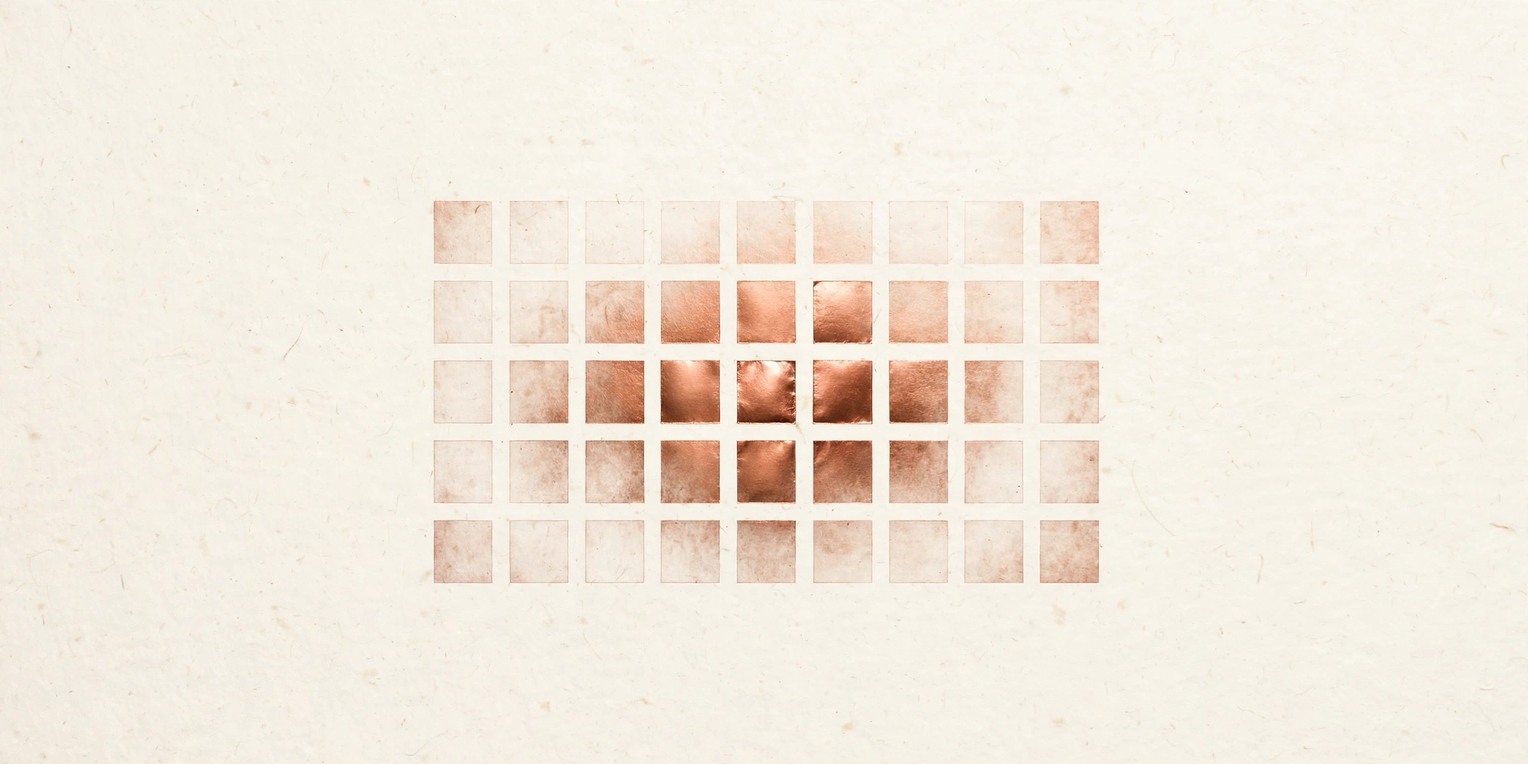
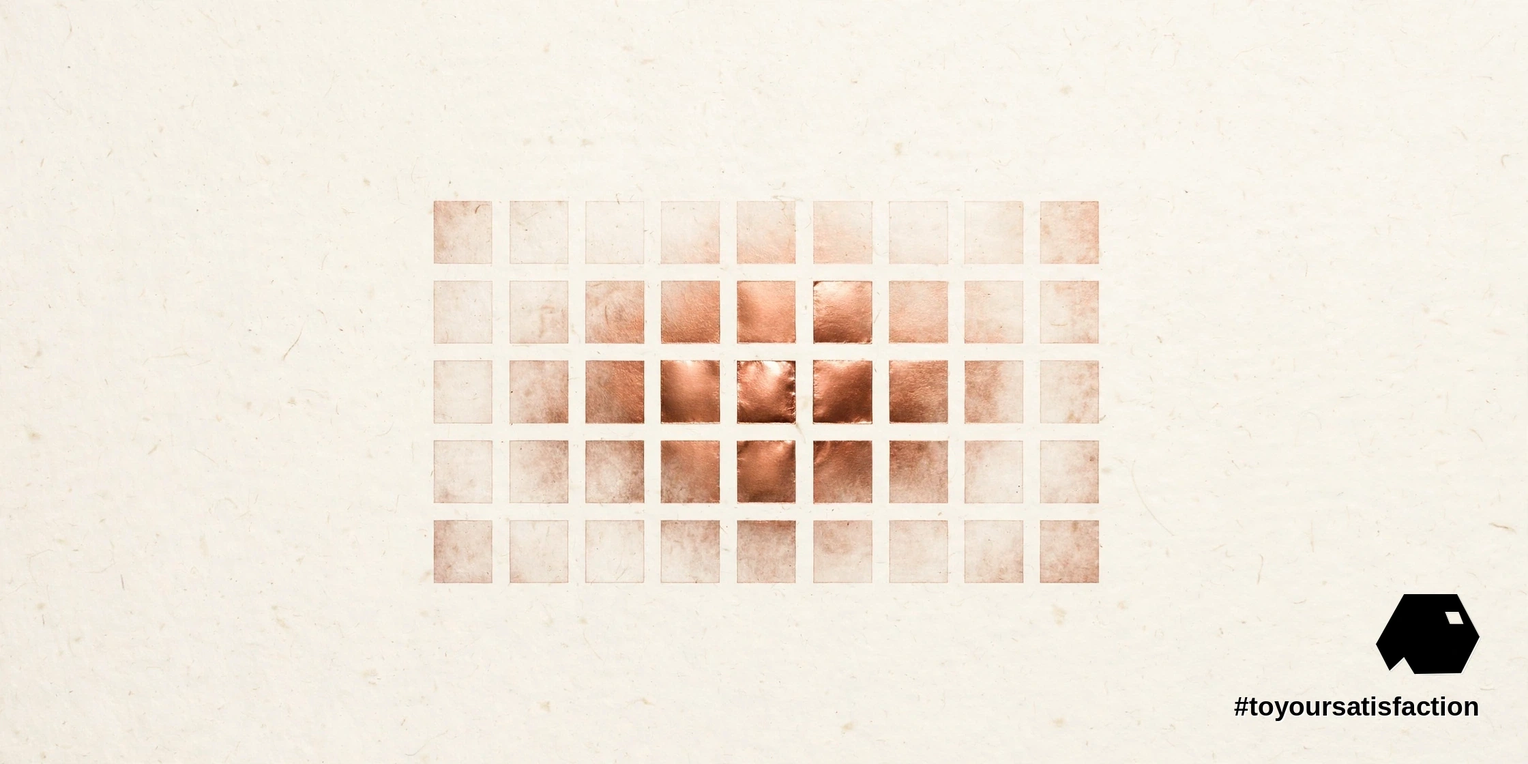
Magazine edition — batch 1

Changed region(s): [[0.8125, 0.7812, 0.9688, 0.9375]]

diff --git a/articles/diffusion-models-write-in-parallel/index.html b/articles/diffusion-models-write-in-parallel/index.html
@@ -5,42 +5,82 @@
 <meta name="viewport" content="width=device-width, initial-scale=1">
 <meta http-equiv="Content-Security-Policy" content="default-src 'self'; script-src 'self' 'unsafe-inline'; style-src 'self' 'unsafe-inline'; img-src 'self' data:; connect-src 'self' https://api.mymemory.translated.net; object-src 'none'; base-uri 'self'">
 <title>Writing in Parallel: The Diffusion Model That Drafts the Whole Page at Once — Ovia Inc</title>
-<meta name="description" content="DiffuSpace Clover-35B-A3B-Preview on Hugging Face is a Mixture-of-Experts diffusion language model — 35B total, 3B active, Apache licence — and the maker's own comparison puts the model first on six agent benchmarks. Generation order is a design choice, and parallel drafting changes what agents can attempt.">
+<meta name="description" content="DiffuSpace Clover-35B-A3B-Preview is a Mixture-of-Experts diffusion language model that drafts a whole block at once, and generation order changes what agents can attempt.">
 <meta property="og:type" content="article">
 <meta property="og:title" content="Writing in Parallel: The Diffusion Model That Drafts the Whole Page at Once">
-<meta property="og:description" content="DiffuSpace Clover-35B-A3B-Preview on Hugging Face is a Mixture-of-Experts diffusion language model — 35B total, 3B active, Apache licence — and the maker's own comparison puts the model first on six agent benchmarks. Generation order is a design choice, and parallel drafting changes what agents can attempt.">
+<meta property="og:description" content="DiffuSpace Clover-35B-A3B-Preview is a Mixture-of-Experts diffusion language model that drafts a whole block at once, and generation order changes what agents can attempt.">
 <meta property="og:url" content="https://oviainc.github.io/ai-services/articles/diffusion-models-write-in-parallel/">
 <meta property="og:image" content="https://oviainc.github.io/ai-services/articles/diffusion-models-write-in-parallel/ovia-inc-diffusion-models-write-in-parallel-hero.webp">
 <meta name="twitter:card" content="summary_large_image">
 <style>
-  :root{--bg:#0A0E14;--accent:#2E9BD6;--text:#FFFFFF;--muted:#B9C4CE;}
+  :root{--bg:#0A0E14;--panel:#101823;--text:#FFFFFF;--muted:#B9C4CE;--line:#22303E;--accent:#CE8450;}
   *{box-sizing:border-box;margin:0;padding:0;}
-  body{background:var(--bg);color:var(--text);font-family:-apple-system,BlinkMacSystemFont,"Segoe UI",Roboto,Helvetica,Arial,sans-serif;line-height:1.65;}
-  main{max-width:760px;margin:0 auto;padding:32px 20px 48px;}
-  .langbar{display:flex;justify-content:flex-end;align-items:center;gap:10px;margin-bottom:18px;}
-  .langbar label{color:var(--muted);font-size:.85rem;letter-spacing:.08em;text-transform:uppercase;}
-  .langbar select{background:#101823;color:var(--text);border:1px solid #1E2A36;border-radius:8px;padding:6px 10px;font-size:.95rem;max-width:60vw;}
-  .kicker{color:var(--accent);font-size:.85rem;letter-spacing:.18em;text-transform:uppercase;margin-bottom:14px;}
-  h1{font-size:2rem;line-height:1.25;margin-bottom:20px;font-weight:700;}
-  h2{font-size:1.3rem;line-height:1.35;margin:28px 0 12px;font-weight:700;color:var(--accent);}
-  img.hero{width:100%;height:auto;border-radius:10px;display:block;margin-bottom:28px;}
-  p{margin-bottom:16px;color:var(--text);}
-  p.tags{color:var(--accent);font-size:.95rem;}
-  ul.refs{list-style:none;margin-bottom:16px;}
-  ul.refs li{margin-bottom:10px;color:var(--muted);font-size:.95rem;}
+  body{background:var(--bg);color:var(--text);font-family:Georgia,'Times New Roman',Times,serif;line-height:1.6;}
+  a{color:var(--accent);}
+  .sans{font-family:-apple-system,BlinkMacSystemFont,"Segoe UI",Roboto,Helvetica,Arial,sans-serif;}
+  /* masthead zone over the article background image */
+  .mastzone{position:relative;overflow:hidden;border-bottom:1px solid var(--line);}
+  .mast-bg{position:absolute;inset:0;background-size:cover;background-position:center;opacity:.22;}
+  .mast-shade{position:absolute;inset:0;background:linear-gradient(180deg,rgba(10,14,20,.52),rgba(10,14,20,.94));}
+  .mast-inner{position:relative;max-width:1180px;margin:0 auto;padding:24px 22px 42px;}
+  .masthead{display:flex;align-items:center;gap:16px;flex-wrap:wrap;}
+  .masthead a.logo{display:block;line-height:0;}
+  .masthead img.logo{height:46px;width:auto;display:block;}
+  .wordmark{font-family:-apple-system,BlinkMacSystemFont,"Segoe UI",Roboto,Helvetica,Arial,sans-serif;letter-spacing:.34em;font-size:13px;text-transform:uppercase;color:var(--text);}
+  .langbar{display:flex;align-items:center;gap:10px;margin-left:auto;}
+  .langbar label{color:var(--muted);font-size:.8rem;letter-spacing:.08em;text-transform:uppercase;font-family:-apple-system,BlinkMacSystemFont,"Segoe UI",Roboto,Helvetica,Arial,sans-serif;}
+  .langbar select{background:#101823;color:var(--text);border:1px solid var(--line);border-radius:8px;padding:6px 10px;font-size:.95rem;max-width:52vw;}
+  .kicker{color:var(--accent);font-size:.85rem;letter-spacing:.3em;text-transform:uppercase;margin:44px 0 16px;font-family:-apple-system,BlinkMacSystemFont,"Segoe UI",Roboto,Helvetica,Arial,sans-serif;}
+  h1.display{font-family:"Arial Narrow Bold","Franklin Gothic Medium",Impact,Haettenschweiler,"Helvetica Neue Condensed Bold",sans-serif;text-transform:uppercase;font-weight:700;font-size:clamp(2.5rem,6.4vw,4.7rem);line-height:.99;letter-spacing:.004em;max-width:1020px;}
+  .standfirst{font-size:clamp(1.12rem,2.3vw,1.42rem);font-style:italic;color:var(--muted);max-width:780px;line-height:1.5;margin-top:18px;}
+  .byline{font-family:-apple-system,BlinkMacSystemFont,"Segoe UI",Roboto,Helvetica,Arial,sans-serif;font-size:.74rem;letter-spacing:.2em;text-transform:uppercase;color:var(--muted);border-top:1px solid var(--line);margin-top:24px;padding-top:14px;}
+  /* hero */
+  .hero-zone{max-width:1180px;margin:34px auto 0;padding:0 22px;}
+  figure.hero img{width:100%;height:auto;display:block;border-radius:2px;}
+  figcaption{font-family:-apple-system,BlinkMacSystemFont,"Segoe UI",Roboto,Helvetica,Arial,sans-serif;font-size:.78rem;color:var(--muted);padding-top:8px;letter-spacing:.03em;}
+  /* body columns */
+  main{max-width:1180px;margin:0 auto;padding:6px 22px 30px;}
+  .cols{margin-top:30px;font-size:1.16rem;line-height:1.75;}
+  @media (min-width:1020px){.cols{column-count:2;column-gap:54px;}}
+  .cols p{margin:0 0 20px;}
+  .cols p.first::first-letter{font-family:"Arial Narrow Bold","Franklin Gothic Medium",Impact,sans-serif;font-size:5.4rem;line-height:.78;float:left;padding:.55rem .9rem 0 0;color:var(--accent);font-weight:700;}
+  h2.sec{font-family:-apple-system,BlinkMacSystemFont,"Segoe UI",Roboto,Helvetica,Arial,sans-serif;font-size:.88rem;letter-spacing:.26em;text-transform:uppercase;color:var(--accent);margin:36px 0 14px;border-top:2px solid var(--accent);padding-top:14px;break-after:avoid;}
+  h2.sec:first-child{margin-top:0;}
+  blockquote.pull{column-span:all;font-size:clamp(1.55rem,3.6vw,2.35rem);line-height:1.3;font-style:italic;text-align:center;color:var(--accent);margin:42px 0;padding:4px 12px;}
+  figure.body{margin:4px 0 22px;break-inside:avoid;}
+  figure.wide{column-span:all;margin:30px 0 34px;}
+  figure.body img,figure.wide img{width:100%;height:auto;display:block;border-radius:2px;}
+  .keybox{break-inside:avoid;background:var(--panel);border:1px solid var(--line);border-top:3px solid var(--accent);padding:18px 20px 10px;margin:0 0 24px;font-family:-apple-system,BlinkMacSystemFont,"Segoe UI",Roboto,Helvetica,Arial,sans-serif;}
+  .keybox h3{font-size:.78rem;letter-spacing:.24em;text-transform:uppercase;color:var(--accent);margin-bottom:10px;}
+  .keybox li{margin:0 0 9px 18px;font-size:.95rem;line-height:1.5;}
+  /* references + tags + footer */
+  .refs-sec{margin-top:44px;border-top:1px solid var(--line);padding-top:24px;}
+  .refs-sec h2{font-family:-apple-system,BlinkMacSystemFont,"Segoe UI",Roboto,Helvetica,Arial,sans-serif;font-size:.88rem;letter-spacing:.26em;text-transform:uppercase;color:var(--accent);margin-bottom:14px;}
+  ul.refs{list-style:none;}
+  ul.refs li{margin-bottom:10px;color:var(--muted);font-size:.95rem;font-family:-apple-system,BlinkMacSystemFont,"Segoe UI",Roboto,Helvetica,Arial,sans-serif;}
   ul.refs a{color:var(--accent);text-decoration:none;word-break:break-all;}
   ul.refs a:hover{text-decoration:underline;}
-  footer{border-top:1px solid #1E2A36;margin-top:36px;padding-top:20px;font-size:.95rem;color:var(--muted);}
+  p.tags{color:var(--accent);font-size:.95rem;margin-top:26px;font-family:-apple-system,BlinkMacSystemFont,"Segoe UI",Roboto,Helvetica,Arial,sans-serif;}
+  footer{border-top:1px solid var(--line);margin-top:38px;padding:22px 0 10px;font-size:.95rem;color:var(--muted);font-family:-apple-system,BlinkMacSystemFont,"Segoe UI",Roboto,Helvetica,Arial,sans-serif;}
+  footer .frow{display:flex;align-items:center;gap:14px;flex-wrap:wrap;}
+  footer img.flogo{height:30px;width:auto;display:block;}
   footer a{color:var(--accent);text-decoration:none;}
   footer a:hover{text-decoration:underline;}
-  @media (max-width:600px){h1{font-size:1.55rem;}main{padding:22px 16px 36px;}}
+  footer .ftag{color:var(--text);letter-spacing:.06em;}
+  @media (max-width:640px){.mast-inner{padding:18px 16px 30px;}main,.hero-zone{padding-left:16px;padding-right:16px;}h1.display{font-size:2.35rem;}.cols{font-size:1.08rem;}}
 </style>
 </head>
 <body>
-<main>
-<div class="langbar">
-          <label for="langPick" data-tr>Language</label>
-          <select id="langPick" aria-label="Choose your language">
+<header class="mastzone">
+  <div class="mast-bg" style="background-image:url('ovia-inc-diffusion-models-write-in-parallel-background.webp')"></div>
+  <div class="mast-shade"></div>
+  <div class="mast-inner">
+    <div class="masthead">
+      <a class="logo" href="../../" aria-label="Ovia Inc — home"><img class="logo" src="../../assets/ovia-inc-logo-white.webp" alt="Ovia Inc — logo"></a>
+      <span class="wordmark">Ovia Inc — Magazine</span>
+      <div class="langbar">
+        <label for="langPick" data-tr>Language</label>
+        <select id="langPick" aria-label="Choose your language">
             <option value="en">English</option>
             <option value="fr">Français</option>
             <option value="es">Español</option>
@@ -118,34 +158,64 @@
             <option value="lo">ລາວ</option>
             <option value="mn">Монгол</option>
           </select>
-        </div>
-  <p class="kicker" data-tr>Ovia Inc — Articles</p>
-  <h1 data-tr>Writing in Parallel: The Diffusion Model That Drafts the Whole Page at Once</h1>
-  <img class="hero" src="ovia-inc-diffusion-models-write-in-parallel-hero.webp" alt="Ovia Inc — A minimalist grid of copper squares on ivory paper, pale and unfinished at the edges, resolving into polished copper in the middle all at once">
-  <h2 data-tr>The release</h2>
-  <p data-tr>Late in October 2026, DiffuSpace released Clover-35B-A3B-Preview on Hugging Face: a Mixture-of-Experts diffusion language model with 35 billion parameters in total and about 3 billion active per token, a thinking mode, and weights published under an Apache licence, with inference support in SGLang and llama.cpp. The lineage matters. DiffuSpace grows out of the University of Hong Kong NLP group behind Dream 7B, the model family that first showed diffusion generation could stand beside conventional generation at small scale. Clover is the same idea, scaled up and aimed squarely at agent work.</p>
-  <p data-tr>The mechanical difference is simple to state and large in consequence. A conventional language model writes one token, feeds that token back, and writes the next, always moving left to right. A diffusion model starts from a masked block of text and refines the whole block across several passes, settling the positions the model is most confident about first and revisiting the rest. The page gets drafted everywhere at once, then sharpened.</p>
-  <h2 data-tr>Why generation order matters</h2>
-  <p data-tr>Left-to-right order is a habit inherited from typewriters and early sequence models, not a law of language. Forced to commit early, an autoregressive model can lock in a weak opening and spend the rest of the answer defending that opening. Parallel drafting reverses the pressure: confident spans land first, uncertain spans stay open longer, and revision becomes part of generation rather than a separate editing pass bolted on afterwards. Structure, code and plans all benefit when the draft can be rearranged before the wording hardens.</p>
-  <p data-tr>Speed follows from the same change. When many positions resolve in a single pass, throughput rises and the cost of an attempt falls. Cheap attempts change behaviour: agents can draft several candidate plans, compare them, and keep the strongest. Generation order quietly decides how much exploration an agent budget can buy.</p>
-  <h2 data-tr>The agent angle</h2>
-  <p data-tr>The maker reports that Clover scores highest on all six agent benchmarks in the maker's own comparison, including 73.6 on SWE-bench Verified and 51.7 on Terminal-Bench 2.1. The maker also reports 680 tokens per second on a single NVIDIA GB300, in BF16 at batch size one, on internal agent workloads, and an INT4 build running on a consumer RTX 5070 Ti with 16GB of memory at 101.8 tokens per second on MATH-500. Every one of those figures is maker-reported, and the comparisons are the maker's own — the honest reading is promise, not proof, until independent teams reproduce the numbers.</p>
-  <p data-tr>Even with that caution, the direction fits the work. The Hugging Face Agents Course and the Hugging Face Deep Reinforcement Learning Course both teach the same lesson from different sides: agents improve when the loop of acting, checking and revising gets faster and cheaper. Context engineering at Ovia since December 2022 starts from the surrounding half of that loop — the state, tools and evidence an agent drafts against. A model that drafts in parallel pairs naturally with verification that also runs in parallel, and context design decides how much of that speed becomes reliability.</p>
-  <h2 data-tr>Caveats and fine print</h2>
-  <p data-tr>Three cautions belong on the record. First, the release carries the word Preview in the name: tooling, kernels and serving paths for block diffusion are younger than the mature autoregressive stack, and rough edges should be expected. Second, every headline figure comes from the maker, including the benchmark table and the throughput claims; the baseline comparisons were run by the maker as well, so independent reproduction is the test that counts. Third, a 35-billion-parameter model remains a serious piece of hardware commitments in full precision — the reported INT4 build eases local experimentation, yet production serving still demands deliberate planning.</p>
-  <h2 data-tr>What to watch</h2>
-  <p data-tr>Signals worth tracking: independent benchmark runs on agent tasks, especially long-horizon coding work; the maturity of the SGLang and llama.cpp paths, since serving quality decides adoption more than launch tables do; agent frameworks reporting results with diffusion backbones inside real scaffolds; and the decision-model variant the maker has signalled for later. The deeper question is whether drafting in parallel becomes a standard option beside left-to-right generation — one more design choice on the table, chosen per workload, the way quantisation and decoding strategy already are.</p>
-  <h2 data-tr>References</h2>
-  <ul class="refs">
-    <li><span data-tr>DiffuSpace — “Clover-35B-A3B-Preview: A New Way for Intelligence”, Hugging Face blog, October 2026:</span> <a href="https://huggingface.co/blog/Diffuspace/clover-35b-a3b-preview">https://huggingface.co/blog/Diffuspace/clover-35b-a3b-preview</a></li>
-    <li><span data-tr>DiffuSpace — Clover-35B-A3B-Preview model card, Hugging Face:</span> <a href="https://huggingface.co/Diffuspace/Clover-35B-A3B-Preview">https://huggingface.co/Diffuspace/Clover-35B-A3B-Preview</a></li>
-  </ul>
+      </div>
+    </div>
+    <p class="kicker" data-tr>Ovia Inc — Artificial Intelligence · Diffusion Language Models</p>
+    <h1 class="display" data-tr>Writing in Parallel: The Diffusion Model That Drafts the Whole Page at Once</h1>
+    <p class="standfirst" data-tr>A diffusion model settles confident spans first and keeps uncertain spans open, turning revision into part of generation itself.</p>
+    <p class="byline" data-tr>Ovia Inc · Studio and Lab · 6 min read</p>
+  </div>
+</header>
+<div class="hero-zone">
+  <figure class="hero">
+    <img src="ovia-inc-diffusion-models-write-in-parallel-hero.webp" alt="Ovia Inc — A minimalist grid of copper squares on ivory paper, pale and unfinished at the edges, resolving into polished copper in the middle all at once">
+    <figcaption data-tr>Parallel drafting in copper and ivory. Image: Ovia Inc</figcaption>
+  </figure>
+</div>
+<main>
+  <div class="cols">
+<p class="first" data-tr>Generation order sounds like an implementation detail, the kind of choice engineers make deep inside a model and readers never need to see. Writing in Parallel argues the opposite: the order in which words arrive changes what a system can attempt, how much revision costs, and how agents should be built around the model. A page drafted everywhere at once behaves differently from a page forced to commit one token at a time.</p>
+<p data-tr>Late in October 2026, DiffuSpace released Clover-35B-A3B-Preview on Hugging Face, and the release gives the argument a concrete shape. The model arrives with published weights, a stated lineage, benchmark claims from the maker, and serving paths that invite experimentation. The careful way to read a launch like this one is to separate three things: what the artefact is, what the maker reports about the artefact, and what independent work still needs to confirm.</p>
+<p data-tr>Context engineering at Ovia since December 2022 has always treated the model as one part of a larger system: the state around the model, the tools within reach, and the evidence left behind matter as much as the weights. A new generation method earns attention when the method changes the design of that surrounding system, and parallel drafting does exactly that.</p>
+<aside class="keybox"><h3 data-tr>Key points</h3><ul><li data-tr>Clover-35B-A3B-Preview is a Mixture-of-Experts diffusion language model with 35 billion parameters in total and about 3 billion active per token.</li><li data-tr>Diffusion generation refines a whole masked block across several passes instead of writing strictly left to right.</li><li data-tr>Every headline benchmark and throughput figure in the launch is reported by the maker and still awaits independent reproduction.</li><li data-tr>Parallel drafting pairs naturally with parallel verification, and context design decides how much speed becomes reliability.</li></ul></aside>
+<h2 class="sec" data-tr>01 · The release</h2>
+<p data-tr>Late in October 2026, DiffuSpace released Clover-35B-A3B-Preview on Hugging Face: a Mixture-of-Experts diffusion language model with 35 billion parameters in total and about 3 billion active per token, a thinking mode, and weights published under an Apache licence, with inference support in SGLang and llama.cpp. The lineage matters. DiffuSpace grows out of the University of Hong Kong NLP group behind Dream 7B, the model family that first showed diffusion generation could stand beside conventional generation at small scale. Clover is the same idea, scaled up and aimed squarely at agent work.</p>
+<p data-tr>The mechanical difference is simple to state and large in consequence. A conventional language model writes one token, feeds that token back, and writes the next, always moving left to right. A diffusion model starts from a masked block of text and refines the whole block across several passes, settling the positions the model is most confident about first and revisiting the rest. The page gets drafted everywhere at once, then sharpened.</p>
+<figure class="body"><img src="ovia-inc-diffusion-models-write-in-parallel-body-1.webp" alt="Ovia Inc — A grid of copper squares on ivory, pale at the edges and polished in the centre, resolving all at once"><figcaption data-tr>Confident spans settle first while uncertain spans stay open longer. Image: Ovia Inc</figcaption></figure>
+<h2 class="sec" data-tr>02 · Why generation order matters</h2>
+<p data-tr>Left-to-right order is a habit inherited from typewriters and early sequence models, not a law of language. Forced to commit early, an autoregressive model can lock in a weak opening and spend the rest of the answer defending that opening. Parallel drafting reverses the pressure: confident spans land first, uncertain spans stay open longer, and revision becomes part of generation rather than a separate editing pass bolted on afterwards. Structure, code and plans all benefit when the draft can be rearranged before the wording hardens.</p>
+<p data-tr>Speed follows from the same change. When many positions resolve in a single pass, throughput rises and the cost of an attempt falls. Cheap attempts change behaviour: agents can draft several candidate plans, compare them, and keep the strongest. Generation order quietly decides how much exploration an agent budget can buy, and budgets shape behaviour more honestly than slogans do.</p>
+<blockquote class="pull" data-tr>Generation order quietly decides how much exploration an agent budget can buy.</blockquote>
+<h2 class="sec" data-tr>03 · The agent angle</h2>
+<p data-tr>The maker reports that Clover scores highest on all six agent benchmarks in the maker's own comparison, including 73.6 on SWE-bench Verified and 51.7 on Terminal-Bench 2.1. The maker also reports 680 tokens per second on a single NVIDIA GB300, in BF16 at batch size one, on internal agent workloads, and an INT4 build running on a consumer RTX 5070 Ti with 16GB of memory at 101.8 tokens per second on MATH-500. Every one of those figures is maker-reported, and the comparisons are the maker's own — the honest reading is promise, not proof, until independent teams reproduce the numbers.</p>
+<figure class="wide"><img src="ovia-inc-diffusion-models-write-in-parallel-body-2.webp" alt="Ovia Inc — Several ivory draft sheets side by side with copper blocks, candidate plans compared in parallel"><figcaption data-tr>Candidate drafts side by side: cheaper attempts make comparison part of the workflow. Image: Ovia Inc</figcaption></figure>
+<p data-tr>Even with that caution, the direction fits the work. The Hugging Face Agents Course and the Hugging Face Deep Reinforcement Learning Course both teach the same lesson from different sides: agents improve when the loop of acting, checking and revising gets faster and cheaper. Context engineering at Ovia since December 2022 starts from the surrounding half of that loop — the state, tools and evidence an agent drafts against. A model that drafts in parallel pairs naturally with verification that also runs in parallel, and context design decides how much of that speed becomes reliability.</p>
+<h2 class="sec" data-tr>04 · Caveats and fine print</h2>
+<p data-tr>Three cautions belong on the record. First, the release carries the word Preview in the name: tooling, kernels and serving paths for block diffusion are younger than the mature autoregressive stack, and rough edges should be expected. Second, every headline figure comes from the maker, including the benchmark table and the throughput claims; the baseline comparisons were run by the maker as well, so independent reproduction is the test that counts. Third, a 35-billion-parameter model remains a serious piece of hardware commitments in full precision — the reported INT4 build eases local experimentation, yet production serving still demands deliberate planning.</p>
+<p data-tr>The craft angle follows from those cautions. Evaluation discipline matters more than launch enthusiasm: run the model inside a real scaffold, on real tasks, with the same verification steps a production workflow would demand, and record where the draft quality helps and where the tooling still resists. A generation method proves value in the loop around the model, not in a launch table.</p>
+<figure class="body"><img src="ovia-inc-diffusion-models-write-in-parallel-body-3.webp" alt="Ovia Inc — Copper drafting tools and small copper blocks arranged on an ivory drafting table"><figcaption data-tr>Revision as craft: tools laid out, drafts compared, wording hardened only at the end. Image: Ovia Inc</figcaption></figure>
+<h2 class="sec" data-tr>05 · What to watch</h2>
+<p data-tr>Signals worth tracking: independent benchmark runs on agent tasks, especially long-horizon coding work; the maturity of the SGLang and llama.cpp paths, since serving quality decides adoption more than launch tables do; agent frameworks reporting results with diffusion backbones inside real scaffolds; and the decision-model variant the maker has signalled for later. The deeper question is whether drafting in parallel becomes a standard option beside left-to-right generation — one more design choice on the table, chosen per workload, the way quantisation and decoding strategy already are.</p>
+<p data-tr>We close with the design lesson rather than the headline. When a draft can be rearranged before the wording hardens, builders gain a new place to spend judgement: keep uncertain spans open, verify in parallel, and let structure settle before sentences do. Whether Clover itself becomes the standard matters less than whether that option stays on the table for agent work from here on.</p>
+
+  </div>
+  <div class="refs-sec">
+    <h2 data-tr>References</h2>
+    <ul class="refs">
+<li><span data-tr>DiffuSpace — “Clover-35B-A3B-Preview: A New Way for Intelligence”, Hugging Face blog, October 2026:</span> <a href="https://huggingface.co/blog/Diffuspace/clover-35b-a3b-preview">https://huggingface.co/blog/Diffuspace/clover-35b-a3b-preview</a></li>
+<li><span data-tr>DiffuSpace — Clover-35B-A3B-Preview model card, Hugging Face:</span> <a href="https://huggingface.co/Diffuspace/Clover-35B-A3B-Preview">https://huggingface.co/Diffuspace/Clover-35B-A3B-Preview</a></li>
+
+    </ul>
+  </div>
   <p class="tags">#ArtificialIntelligence #AIAgents #HuggingFace #toyoursatisfaction</p>
   <footer>
-    <p><a href="../../">Ovia Inc</a> · Source on GitHub: <a href="https://github.com/Oviainc/ai-services">github.com/Oviainc/ai-services</a></p>
+    <div class="frow">
+      <a href="../../" aria-label="Ovia Inc — home"><img class="flogo" src="../../assets/ovia-inc-logo-white.webp" alt="Ovia Inc — logo"></a>
+      <span><a href="../../">Ovia Inc</a> · <span data-tr>Source on GitHub:</span> <a href="https://github.com/Oviainc/ai-services">github.com/Oviainc/ai-services</a></span>
+      <span class="ftag">#toyoursatisfaction</span>
+    </div>
   </footer>
 </main>
-
 <script>
 (function () {
   "use strict";
@@ -307,6 +377,5 @@
   }
 })();
 </script>
-
 </body>
 </html>
